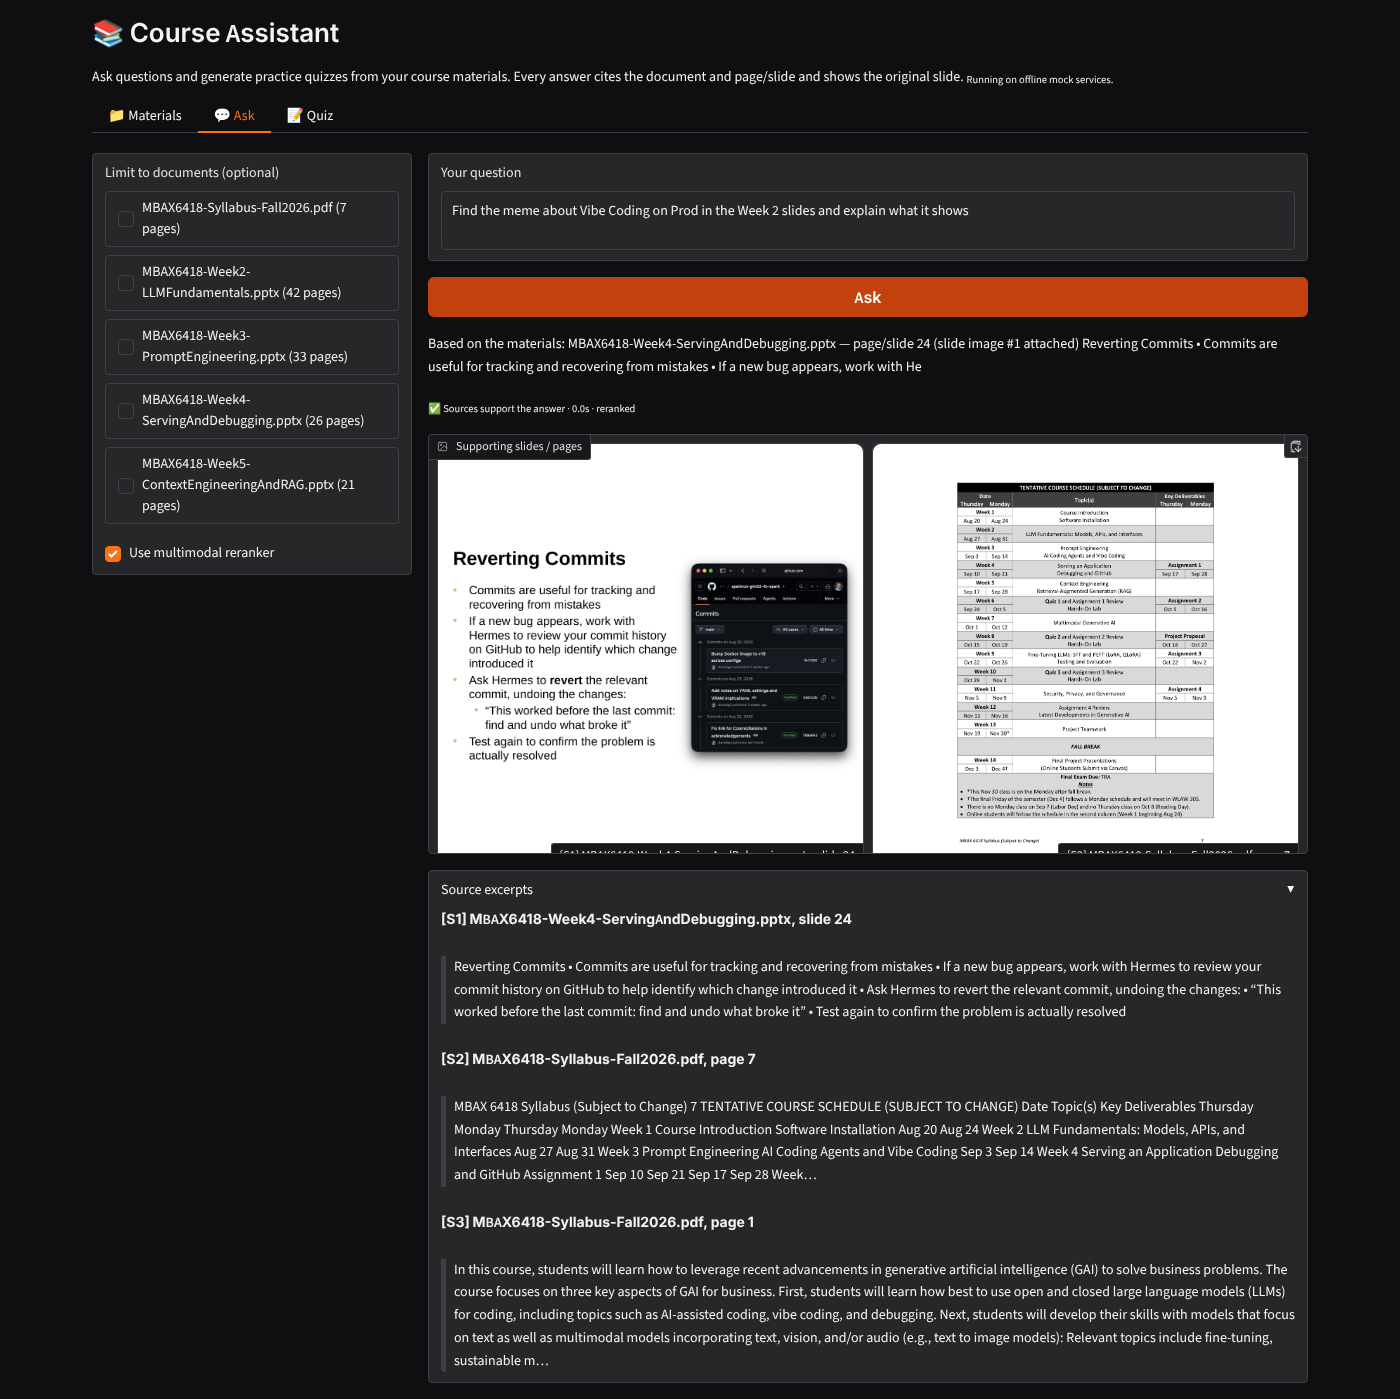
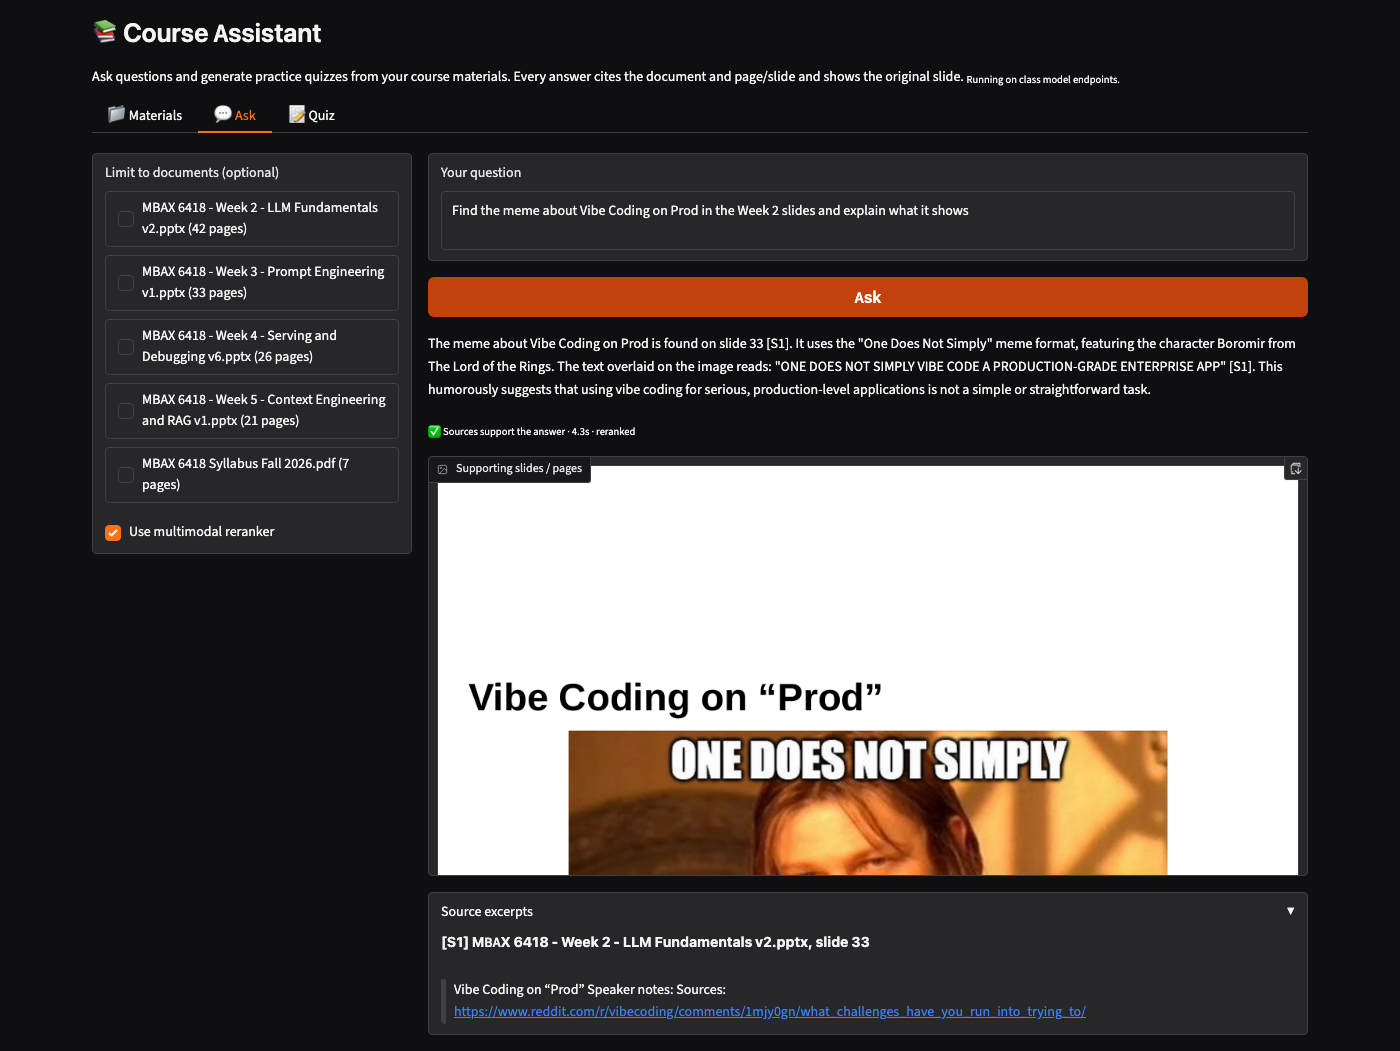
Step 9c: real screenshots on the class services, light and dark
Replace the mock-era screenshots with captures against the real endpoints and
the five course files: Materials tab, an answer to the Vibe Coding on Prod meme
question showing slide 33 with its image and excerpt, and quiz feedback with
correct answers, explanations and source slides. The screenshot script now
waits for the real answer, quiz and score instead of fixed delays.

Closes #14

diff --git a/scripts/screenshot_ui.py b/scripts/screenshot_ui.py
@@ -23,7 +23,9 @@ with sync_playwright() as p:
     page.wait_for_timeout(500)
     page.get_by_label("Your question").fill("Find the meme about Vibe Coding on Prod in the Week 2 slides and explain what it shows")
     page.get_by_role("button", name="Ask", exact=True).click()
-    page.wait_for_timeout(4000)
+    # Real services take a few seconds; wait for the sources panel to list a slide.
+    page.get_by_text("[S1]").first.wait_for(timeout=90000)
+    page.wait_for_timeout(1500)
     page.screenshot(path=f"{out}/ask-{theme}.png", full_page=True)
 
     # Quiz tab
@@ -31,7 +33,8 @@ with sync_playwright() as p:
     page.wait_for_timeout(500)
     page.get_by_label("Topic filter (optional)").fill("retrieval augmented generation")
     page.get_by_role("button", name="Generate quiz").click()
-    page.wait_for_timeout(4000)
+    page.get_by_text("Q1.").first.wait_for(timeout=120000)
+    page.wait_for_timeout(1000)
     # pick one option on every visible question
     labels = page.locator("label:has(input[type=radio])")
     seen = set()
@@ -45,7 +48,8 @@ with sync_playwright() as p:
         seen.add(name)
         el.click()
     page.get_by_role("button", name="Submit answers").click()
-    page.wait_for_timeout(2500)
+    page.get_by_text("Score:").first.wait_for(timeout=30000)
+    page.wait_for_timeout(1000)
     page.screenshot(path=f"{out}/quiz-{theme}.png", full_page=True)
     b.close()
 print("done", theme)
